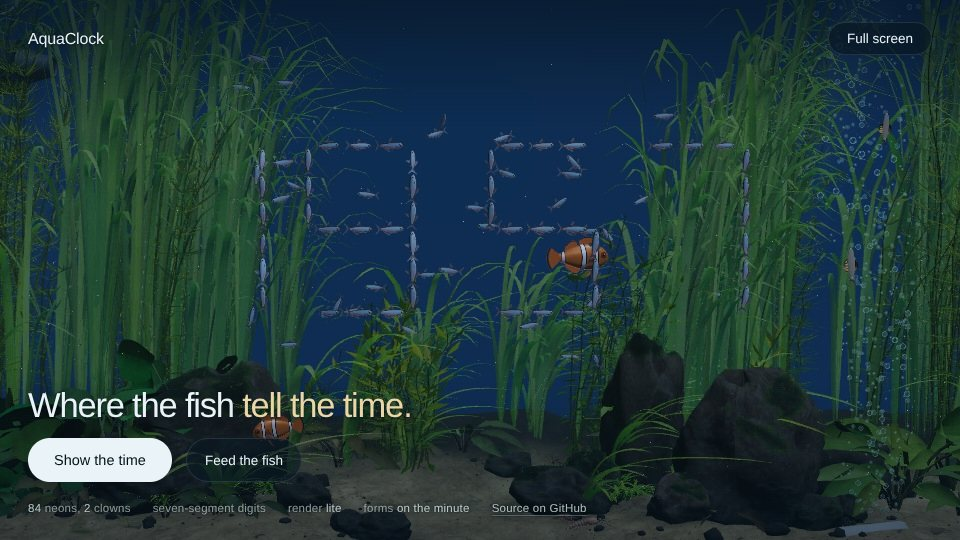
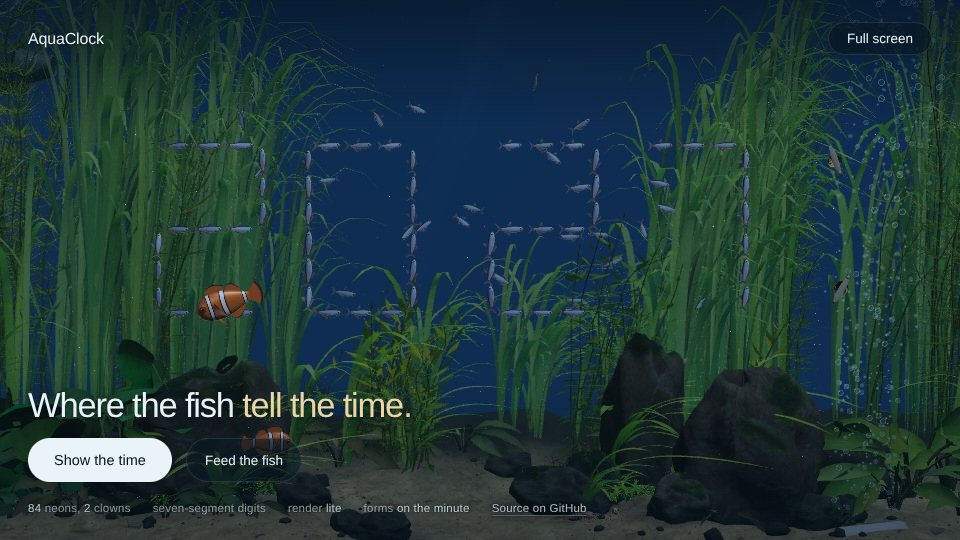
Lighting fix

diff --git a/index.html b/index.html
@@ -5150,7 +5150,7 @@ function createShafts(scene, { lite = false } = {}) {
   const geometry = new THREE.PlaneGeometry(1, 1);
   geometry.translate(0, -0.5, 0); // hangs down from its top edge, which is at the surface
   const group = new THREE.Group();
-  group.position.y = SURFACE_Y;
+  group.position.y = SURFACE_Y + 4;   // the beams start above the top of the picture, so none has a visible top end
   scene.add(group);
   const beams = [];
   for (let i = 0; i < count; i++) {
@@ -5160,7 +5160,7 @@ function createShafts(scene, { lite = false } = {}) {
       transparent: true, blending: THREE.AdditiveBlending, depthWrite: false, side: THREE.DoubleSide,
     });
     const mesh = new THREE.Mesh(geometry, material);
-    mesh.scale.set(rand(1.1, 2.6), rand(8.4, 9.6), 1);
+    mesh.scale.set(rand(1.1, 2.6), rand(12.4, 13.6), 1);
     const pivot = new THREE.Group();
     pivot.add(mesh);
     group.add(pivot);
@@ -6417,6 +6417,7 @@ async function createRiverscape(canvas, options = {}) {
   // seen from below, and the beams that come down through it.
   const daylight = createDaylight({ scene, renderer, hemi, key, fill, back, backboard, lite });
   const waterSurface = createSurface(scene, { lite });
+  waterSurface.mesh.visible = false;   // off by default; ?surface=on shows the rippled underside of the water
   const shafts = createShafts(scene, { lite });
 
   // The sand the shrimp may walk on: from the back of the front stones to where the bottom of
@@ -7163,8 +7164,10 @@ async function createRiverscape(canvas, options = {}) {
     snails.setArea(snailArea());
     placePump();
     shrimp.setArea(shrimpArea());
-    // the surface is drawn now, so the bubbles pop at it
-    bubbles.setSurface(SURFACE_Y);
+    // The surface is not drawn (unless ?surface=on), so the bubbles pop just past the top edge of the
+    // picture, not at the waterline: never below the real surface; the pump's own is worked out at its
+    // depth, far back at the glass.
+    bubbles.setSurface(Math.max(SURFACE_Y, topOfFrameAt(STONE.z) + 1.2), Math.max(SURFACE_Y, topOfFrameAt(PUMP.z) + 1.2));
     bubbles.setViewport(renderer.domElement.height, camera.fov);
     assignments = clockAssignments(new Date(), viewFrame());
   }
@@ -7227,7 +7230,7 @@ async function createRiverscape(canvas, options = {}) {
       const showLight = (text) => { lightLabel.textContent = text; lightLabel.classList.add('show'); clearTimeout(lightTimer); lightTimer = setTimeout(() => lightLabel.classList.remove('show'), 2000); };
       document.getElementById('fu-light').addEventListener('click', () => showLight(habitat.cycleLight()));
       window.addEventListener('keydown', (e) => { if ((e.key === 'l' || e.key === 'L') && !e.metaKey && !e.ctrlKey && !e.altKey) showLight(habitat.cycleLight()); });
-      { const q = new URLSearchParams(location.search); const want = q.get('light') || q.get('time'); if (want) habitat.setLight(want); if (q.get('surface') === 'off') habitat.setSurfaceVisible(false); }
+      { const q = new URLSearchParams(location.search); const want = q.get('light') || q.get('time'); if (want) habitat.setLight(want); if (q.get('surface') === 'on') habitat.setSurfaceVisible(true); }
       document.getElementById('feed').addEventListener('click', () => habitat && habitat.feed());
       document.getElementById('showtime').addEventListener('click', () => habitat && habitat.showTime());
       // Keep the clock out from behind the words: measure how much room the text leaves above

diff --git a/src/scene/riverscape.js b/src/scene/riverscape.js
@@ -1237,6 +1237,7 @@ export async function createRiverscape(canvas, options = {}) {
   // seen from below, and the beams that come down through it.
   const daylight = createDaylight({ scene, renderer, hemi, key, fill, back, backboard, lite });
   const waterSurface = createSurface(scene, { lite });
+  waterSurface.mesh.visible = false;   // off by default; ?surface=on shows the rippled underside of the water
   const shafts = createShafts(scene, { lite });
 
   // The sand the shrimp may walk on: from the back of the front stones to where the bottom of
@@ -1983,8 +1984,10 @@ export async function createRiverscape(canvas, options = {}) {
     snails.setArea(snailArea());
     placePump();
     shrimp.setArea(shrimpArea());
-    // the surface is drawn now, so the bubbles pop at it
-    bubbles.setSurface(SURFACE_Y);
+    // The surface is not drawn (unless ?surface=on), so the bubbles pop just past the top edge of the
+    // picture, not at the waterline: never below the real surface; the pump's own is worked out at its
+    // depth, far back at the glass.
+    bubbles.setSurface(Math.max(SURFACE_Y, topOfFrameAt(STONE.z) + 1.2), Math.max(SURFACE_Y, topOfFrameAt(PUMP.z) + 1.2));
     bubbles.setViewport(renderer.domElement.height, camera.fov);
     assignments = clockAssignments(new Date(), viewFrame());
   }

diff --git a/src/scene/surface.js b/src/scene/surface.js
@@ -130,7 +130,7 @@ export function createShafts(scene, { lite = false } = {}) {
   const geometry = new THREE.PlaneGeometry(1, 1);
   geometry.translate(0, -0.5, 0); // hangs down from its top edge, which is at the surface
   const group = new THREE.Group();
-  group.position.y = SURFACE_Y;
+  group.position.y = SURFACE_Y + 4;   // the beams start above the top of the picture, so none has a visible top end
   scene.add(group);
   const beams = [];
   for (let i = 0; i < count; i++) {
@@ -140,7 +140,7 @@ export function createShafts(scene, { lite = false } = {}) {
       transparent: true, blending: THREE.AdditiveBlending, depthWrite: false, side: THREE.DoubleSide,
     });
     const mesh = new THREE.Mesh(geometry, material);
-    mesh.scale.set(rand(1.1, 2.6), rand(8.4, 9.6), 1);
+    mesh.scale.set(rand(1.1, 2.6), rand(12.4, 13.6), 1);
     const pivot = new THREE.Group();
     pivot.add(mesh);
     group.add(pivot);

diff --git a/README.md b/README.md
@@ -54,8 +54,8 @@ any browser.
 > - **Ours, inspired by it.** The fish bodies (a neon tetra and a clownfish, built the way
 >   Habitats builds its bloodfin tetra, lofted cross-sections in fractions of body length, but
 >   with our own proportions) and everything above the tank: the clock, the clownfish
->   behaviour, the bubbles, the fog, the air stone, the pump, the snails, the shrimp, the water's
->   surface, the light through the day and the page.
+>   behaviour, the bubbles, the fog, the air stone, the pump, the snails, the shrimp, the light
+>   through the day and the page.
 >
 > What this repo adds is our previous concept of fish telling the time, a pair of clownfish, glassy bubbles, and a hosted web page tuned for phones and tablets. Not affiliated with, or endorsed by, Habitats or Chase Lean.
 
@@ -87,7 +87,7 @@ running all night on a phone is the reason it is not simply *in* the app; see
 | `F` / `Esc` | enter / leave full screen |
 | `L`, or the sun icon in full screen | the next look for the light: evening (the default), day, dusk, night, dawn, then the device's clock |
 | `?light=day` (or `dusk`, `night`, `dawn`, `19:30`, `clock`) | open at one look, a time of day, or following the device's clock |
-| `?surface=off` | leave out the rippled underside of the water's surface |
+| `?surface=on` | add a rippled underside of the water's surface at the top of a wide picture (off by default) |
 
 On iPhone, Safari has no Fullscreen API, so the view hides the text but keeps the address
 bar. For none at all: open it with `#full`, then Share, Add to Home Screen.
@@ -123,12 +123,10 @@ bar. For none at all: open it with `#full`, then Share, Add to Home Screen.
   swim up into the water to a new spot, and now and then flick their tails to shoot backward.
 - **Water.** Per-channel fog, so distance turns the tank blue-teal rather than grey;
   and Habitats' own light model for everything under it.
-- **Light and the surface.** On a wide or upright picture, the top of the tank is the underside of
-  the water: a thin, rippled, blue band, drawn as a fake, because a real reflection pass would
-  cost a phone too much. Faint beams of light come down through the water, and soft light moves
-  over the sand and the stones. It opens on a fixed dim blue evening look. The sun button in
-  the full screen view (or `L`) runs the light on through day, dusk, night and dawn, and to the
-  device's own clock.
+- **Light.** Faint beams of light come down through the water, and soft light moves over the
+  sand and the stones. It opens on a fixed dim blue evening look. The sun button in the full
+  screen view (or `L`) runs the light on through day, dusk, night and dawn, and to the device's
+  own clock.
 - **Two profiles.** `rich` is Riverscape as published. `lite` drops the shadow pass and
   thins the planting, for phones and older tablets. Both are always multisampled: the
   plants use alpha-to-coverage, which without MSAA breaks up into flickering dots.
@@ -148,7 +146,7 @@ Inter font from Google Fonts, so the page needs a network connection.
     src/scene/snails.js         the snails
     src/scene/shrimp.js         the shrimp
     src/scene/daylight.js       the light through the day
-    src/scene/surface.js        the water's surface, and the beams of light
+    src/scene/surface.js        the beams of light (and an optional rippled water surface)
     src/scene/riverscape/       Habitats' modules (vendored) + lod.js
     src/scene/textures.js       Poly Haven CC0 maps, inlined
     tools/                      real-browser tests; see tools/README.md

diff --git a/docs/DEVICE-TESTING.md b/docs/DEVICE-TESTING.md
@@ -44,9 +44,9 @@ model and iOS version. The footer says `render lite` or `render rich`.
 Tap **Full screen**. All text goes, the view zooms out (a wider lens, so more of the
 tank shows), and tapping or moving brings back four icons (time, feed, light, exit) for
 three seconds. The sun icon (or the L key) runs the light on to the next look: evening (the default,
-a fixed dim blue look), day, dusk, night, dawn, and the device's clock. Check each on the phone: the top of the picture should be the
-rippled underside of the surface, the sand should have soft moving light on it by day, and
-the clock should still read at night. `?light=dusk` or `?light=19:30` opens at one. `F` toggles and `Esc` leaves it on a keyboard.
+a fixed dim blue look), day, dusk, night, dawn, and the device's clock. Check each on the phone: faint beams should slant down through
+the water, the sand should have soft moving light on it by day, and the clock should still
+read at night. `?light=dusk` or `?light=19:30` opens at one. `F` toggles and `Esc` leaves it on a keyboard.
 iPad Safari may go truly fullscreen; iPhone Safari cannot, so the text hides but the
 address bar stays. For no browser chrome at all: open the page with `#full` on the
 end, then Share > Add to Home Screen, and launch it from the icon. Not tested on a
